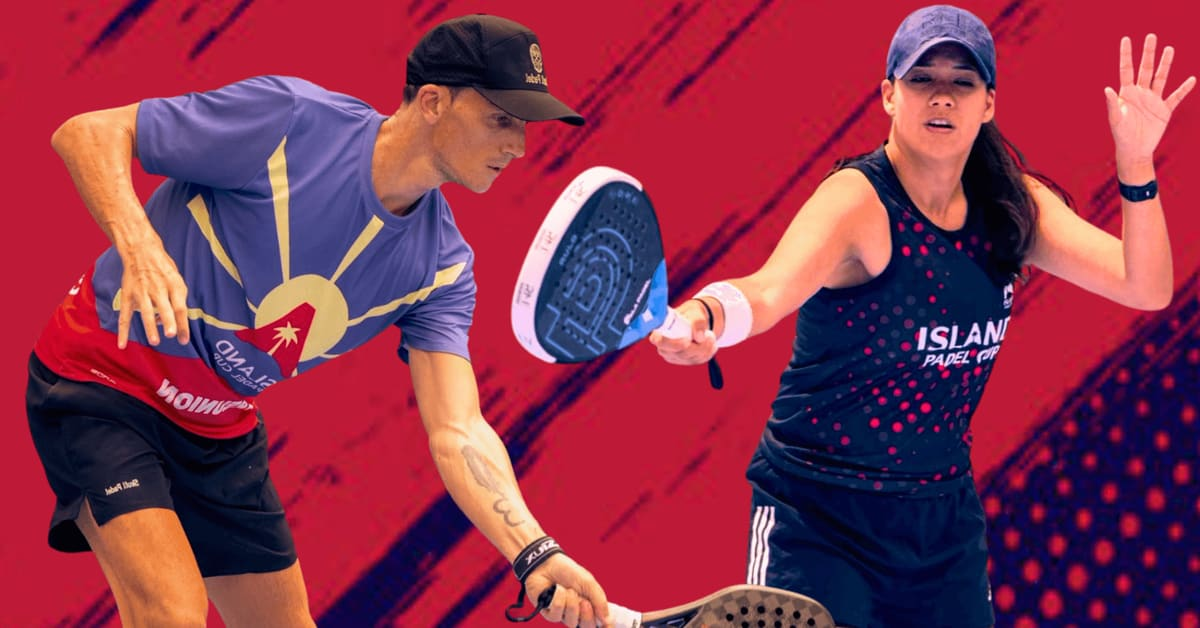
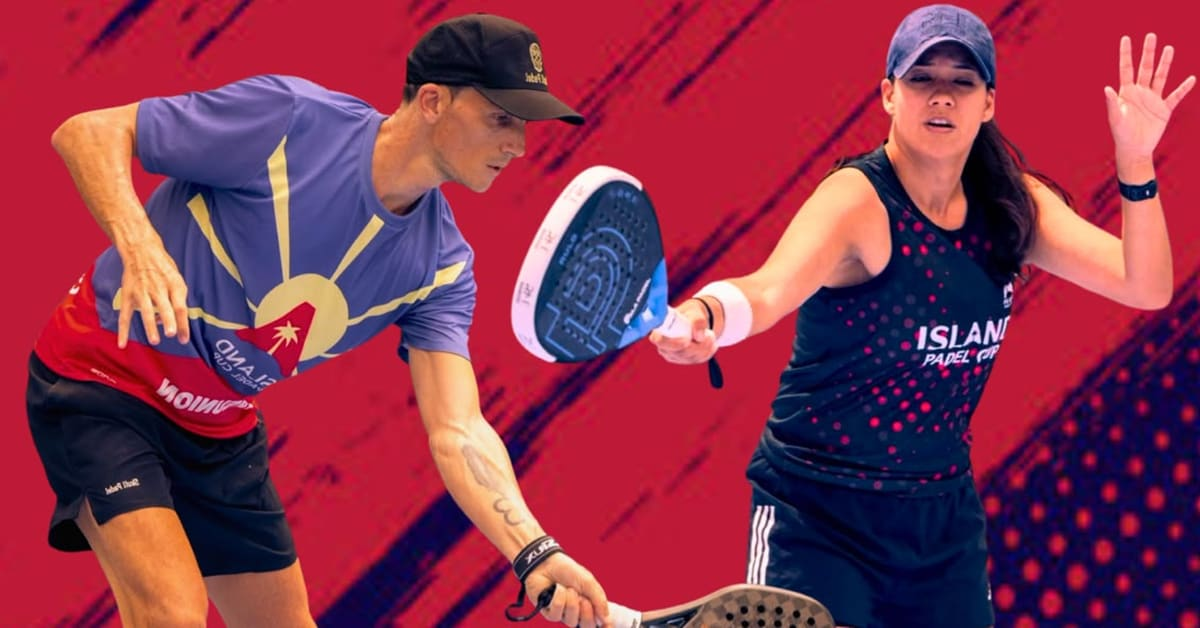
M1000 Isla Padel: 3 days (12-14 Nov), juniors, new poster image
Calendar entries start 12 Nov; the Home banner shows 12-14 Nov,
mentions juniors and uses the updated poster.

diff --git a/src/data/mpl2026.ts b/src/data/mpl2026.ts
@@ -393,8 +393,8 @@ export const MPL_TOURNAMENTS: Tournament[] = [
   {id:'t204f',name:'Mont Choisy Golf M100 (Dames)',club_id:'c14',club_name:'Mont Choisy Golf',date:'2026-11-14',region:'Nord',category:'M100',division:'women',type:'WOMEN',status:'upcoming',max_teams:32},
   {id:'t205h',name:'Oxygen Moka M100 (Hommes)',club_id:'c15',club_name:'Oxygen Moka',date:'2026-11-14',region:'Centre',category:'M100',division:'men',type:'MEN',status:'upcoming',max_teams:32},
   {id:'t205f',name:'Oxygen Moka M100 (Dames)',club_id:'c15',club_name:'Oxygen Moka',date:'2026-11-14',region:'Centre',category:'M100',division:'women',type:'WOMEN',status:'upcoming',max_teams:32},
-  {id:'t202h',name:'Isla Padel Grand Baie M1000 (Hommes)',club_id:'c12',club_name:'Isla Padel Grand Baie',start_date:'2026-11-13',registration_deadline:'2026-11-08T12:00:00+04:00',date:'2026-11-14',region:'Nord',category:'M1000',division:'men',type:'MEN',status:'upcoming',max_teams:48},
-  {id:'t202f',name:'Isla Padel Grand Baie M1000 (Dames)',club_id:'c12',club_name:'Isla Padel Grand Baie',start_date:'2026-11-13',registration_deadline:'2026-11-08T12:00:00+04:00',date:'2026-11-14',region:'Nord',category:'M1000',division:'women',type:'WOMEN',status:'upcoming',max_teams:48},
+  {id:'t202h',name:'Isla Padel Grand Baie M1000 (Hommes)',club_id:'c12',club_name:'Isla Padel Grand Baie',start_date:'2026-11-12',registration_deadline:'2026-11-08T12:00:00+04:00',date:'2026-11-14',region:'Nord',category:'M1000',division:'men',type:'MEN',status:'upcoming',max_teams:48},
+  {id:'t202f',name:'Isla Padel Grand Baie M1000 (Dames)',club_id:'c12',club_name:'Isla Padel Grand Baie',start_date:'2026-11-12',registration_deadline:'2026-11-08T12:00:00+04:00',date:'2026-11-14',region:'Nord',category:'M1000',division:'women',type:'WOMEN',status:'upcoming',max_teams:48},
   {id:'t207h',name:'I Padel by RM Hennessy M100 (Hommes)',club_id:'c07',club_name:'I Padel by RM Hennessy',date:'2026-11-15',region:'Centre',category:'M100',division:'men',type:'MEN',status:'upcoming',max_teams:32},
   {id:'t207f',name:'I Padel by RM Hennessy M100 (Dames)',club_id:'c07',club_name:'I Padel by RM Hennessy',date:'2026-11-15',region:'Centre',category:'M100',division:'women',type:'WOMEN',status:'upcoming',max_teams:32},
   {id:'t210h',name:'Urban Sport Black River M50 (Hommes)',club_id:'c04',club_name:'Urban Sport Black River',date:'2026-11-21',region:'Ouest',category:'M50',division:'men',type:'MEN',status:'upcoming',max_teams:24},

diff --git a/src/pages/Home.tsx b/src/pages/Home.tsx
@@ -237,12 +237,12 @@ const FEATURED_TOURNAMENTS: FeaturedTournamentItem[] = [
     accent: '#2f8fe8',
     accentInk: '#04101c',
     image: '/images/m1000-isla-2026.jpg',
-    dates: { fr: '13–14 NOVEMBRE 2026', en: '13–14 NOVEMBER 2026' },
+    dates: { fr: '12–14 NOVEMBRE 2026', en: '12–14 NOVEMBER 2026' },
     title: ['M1000', 'ISLA PADEL'],
     label: { fr: 'le M1000 Isla Padel 2026', en: 'the M1000 Isla Padel 2026' },
     text: {
-      fr: 'Grand Baie · Hommes / Dames Open · licenciés MPL. Inscriptions jusqu’au dimanche 8 novembre à 12:00 (site ou appli MPL), puis tableaux, programme et scores en direct sur le site du tournoi.',
-      en: 'Grand Baie · Men / Women Open · MPL licence holders. Registrations until Sunday 8 November at 12:00 (website or MPL app), then draws, schedule and live scores on the tournament site.',
+      fr: 'Grand Baie · Hommes / Dames Open + Juniors · licenciés MPL. Inscriptions jusqu’au dimanche 8 novembre à 12:00 (site ou appli MPL), puis tableaux, programme et scores en direct sur le site du tournoi.',
+      en: 'Grand Baie · Men / Women Open + Juniors · MPL licence holders. Registrations until Sunday 8 November at 12:00 (website or MPL app), then draws, schedule and live scores on the tournament site.',
     },
   },
 ];
